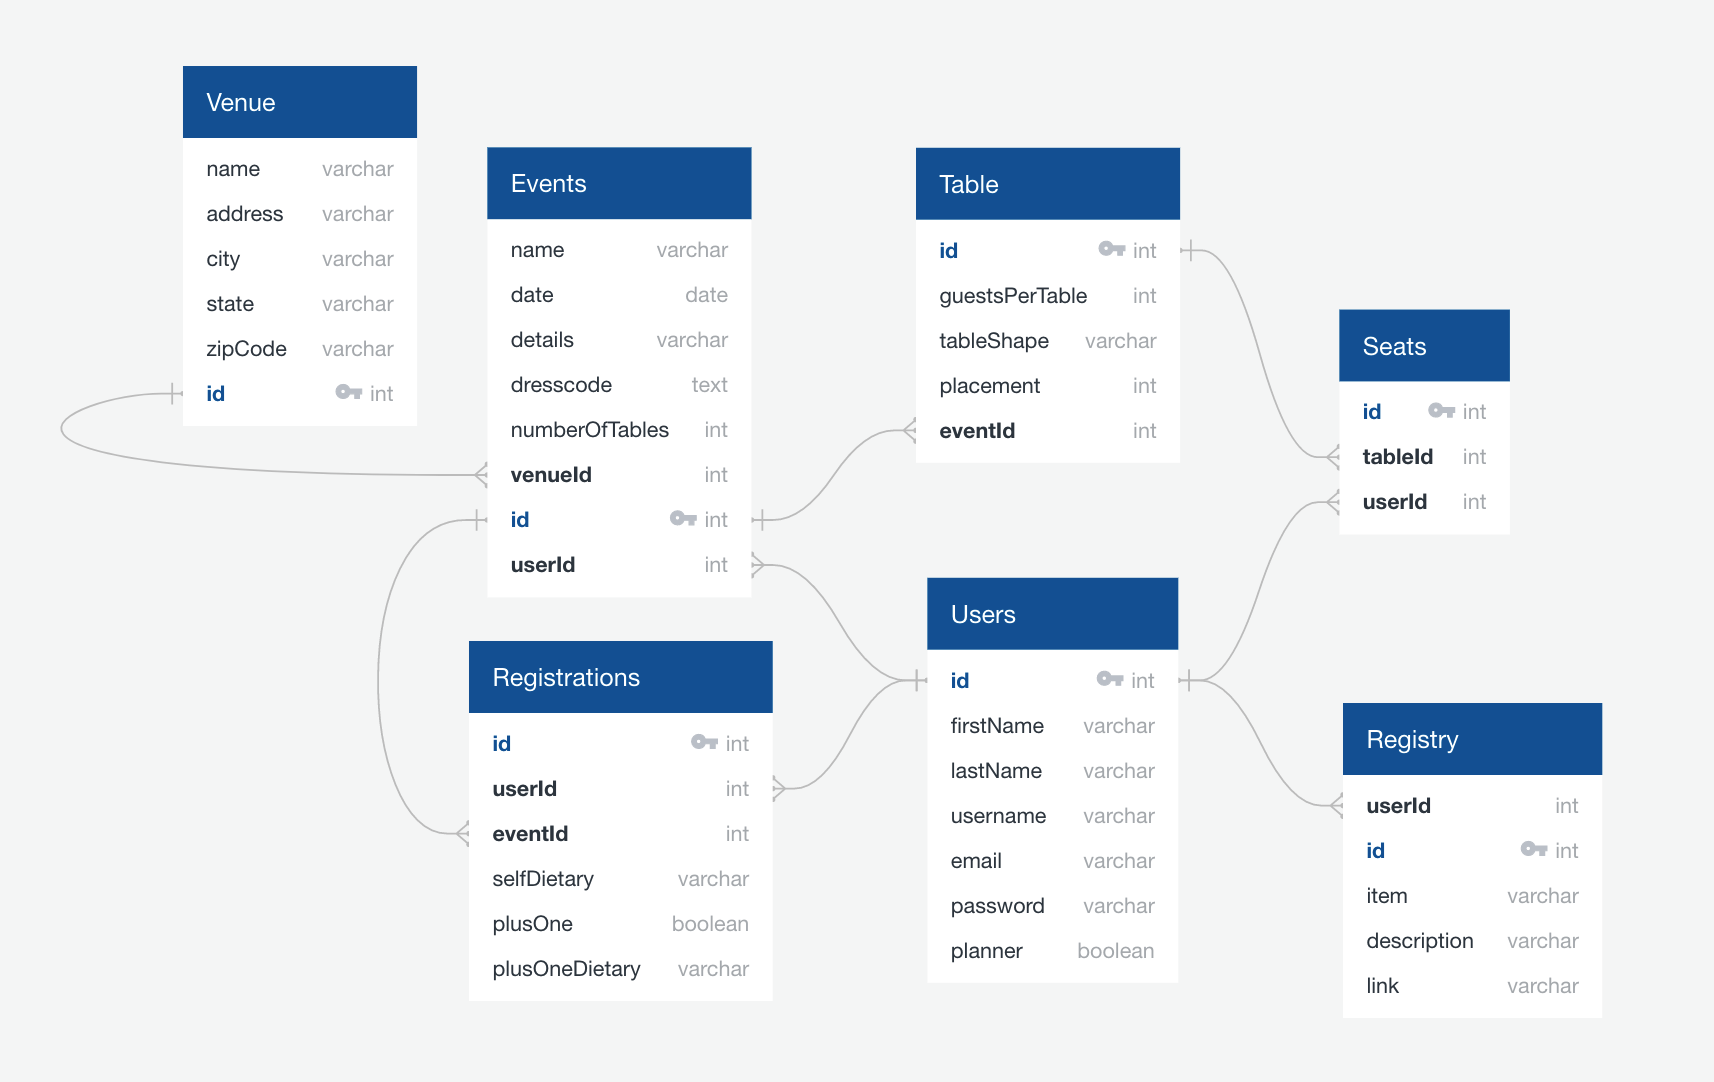
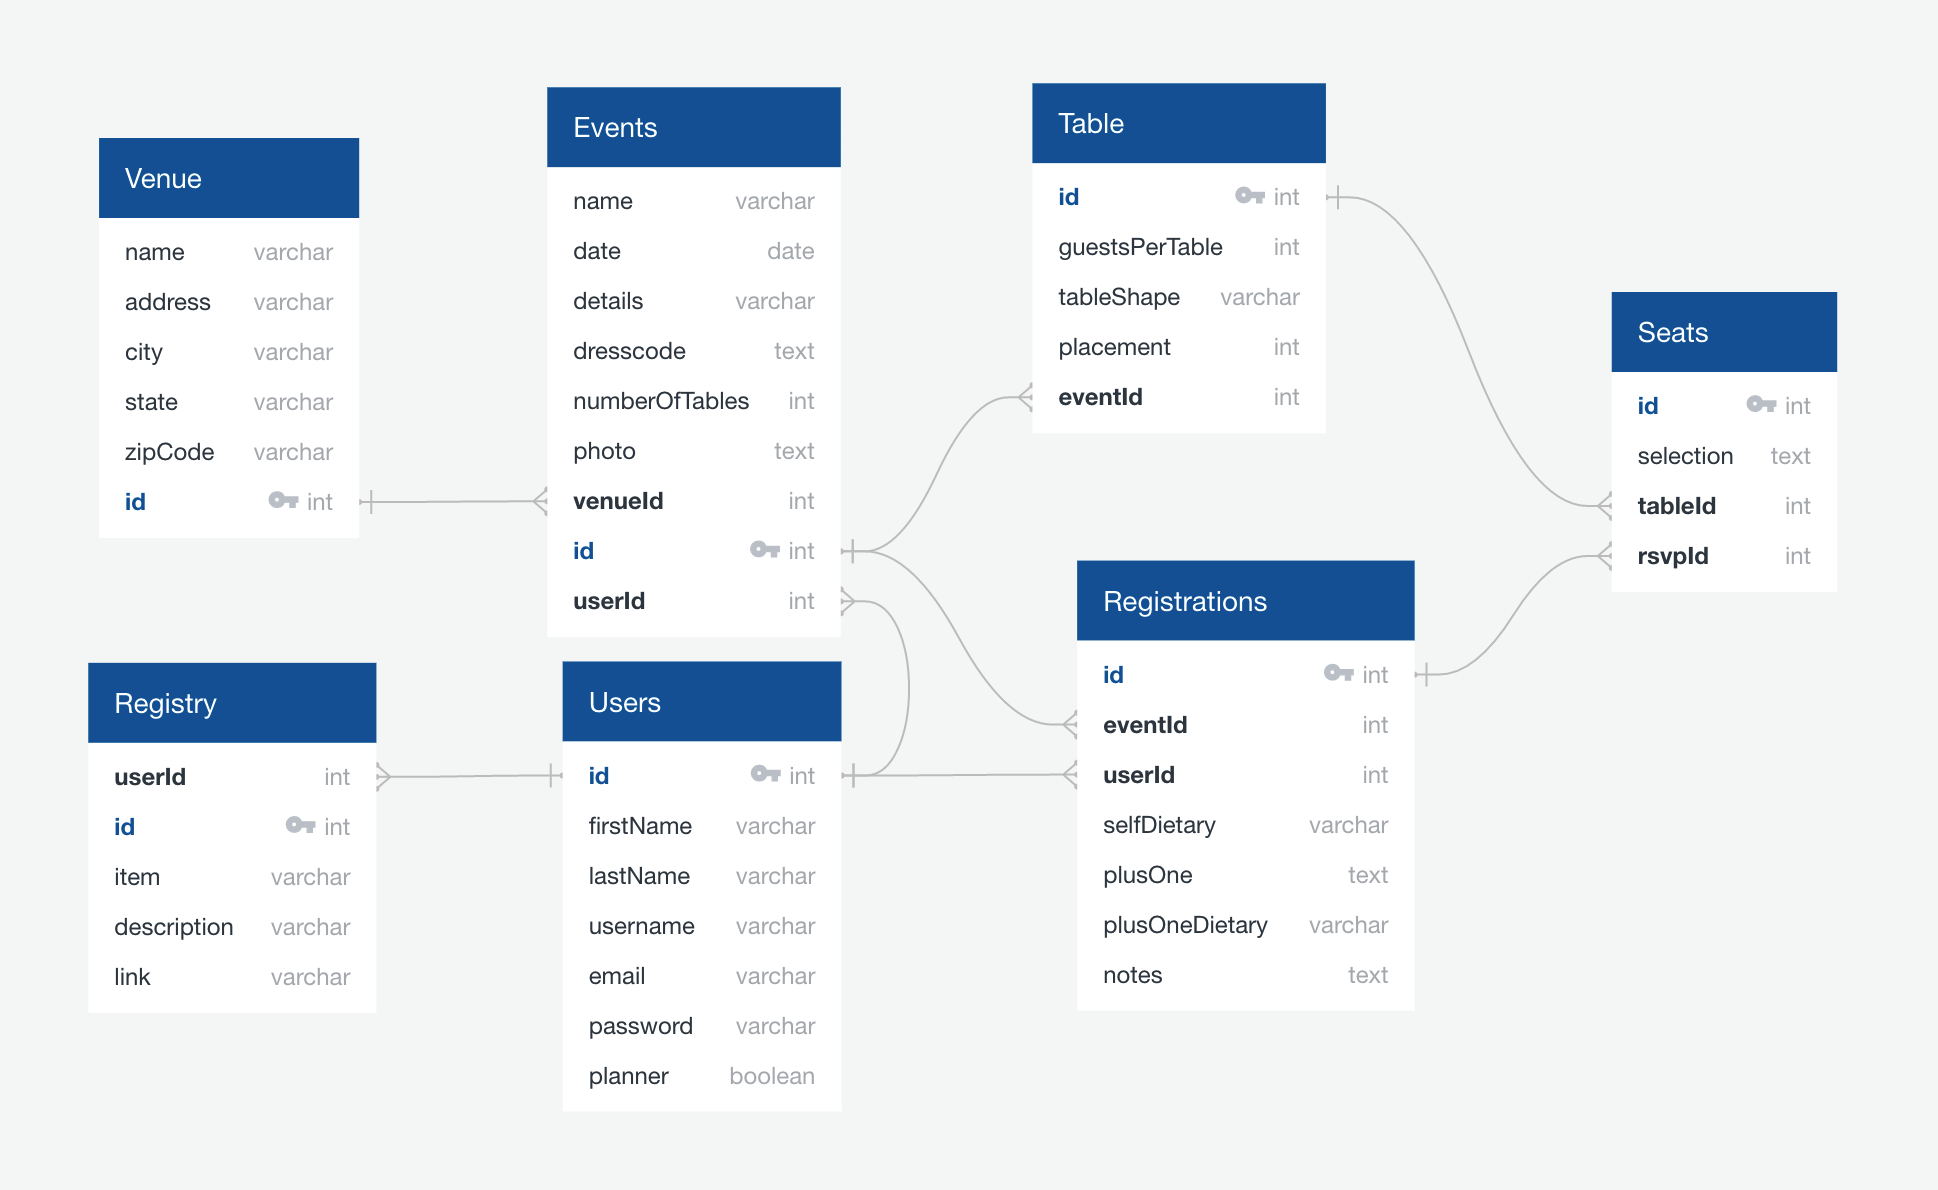
added event image to database and created demo

diff --git a/frontend/src/components/RSVPFormModal/RSVPForm.js b/frontend/src/components/RSVPFormModal/RSVPForm.js
@@ -1,0 +1,107 @@
+import React, { useState, useEffect } from 'react';
+import * as sessionActions from '../../store/session';
+import { useDispatch, useSelector } from 'react-redux';
+import { useHistory } from 'react-router';
+import * as eventActions from '../../store/events';
+
+const diets = ['None', 'Vegetarian', 'Vegan', 'Gluten-free', 'Allergy (please specify in notes below)']
+
+function RSVPForm() {
+  const sessionUser = useSelector(state => state.session.user);
+  const dispatch = useDispatch();
+  const history = useHistory();
+  const [firstName, setFirstName] = useState(sessionUser?.firstName);
+  const [lastName, setLastName] = useState(sessionUser?.lastName);
+  const [plusOne, setPlusOne] = useState('');
+  const [selfDietary, setSelfDietary] = useState('None');
+  const [plusOneDietary, setPlusOneDietary] = useState('');
+  const [message, setMessage] = useState('');
+  const [errors, setErrors] = useState([]);
+  const [hasSubmitted, setHasSubmitted] = useState(false);
+
+  useEffect(() => {
+    const errors = [];
+    // if (name.length < 3) errors.push('Please enter your Name');
+    setErrors(errors);
+  }, [])
+
+  const handleSubmit = async (e) => {
+    e.preventDefault();
+    setHasSubmitted(true);
+
+    const payload = {}
+    await dispatch(eventActions.createNewEvent(payload));
+
+    history.push("/events")
+    // setName('');
+    setErrors([]);
+    setHasSubmitted(false);
+  };
+
+  return (
+    <div className="center">
+      <div className="create-event-form-container">
+        <form onSubmit={handleSubmit}>
+          <h3>Please fill in details:</h3>
+          <ul>
+            {errors.map((error, idx) => (
+              <li key={idx} className="error">{error}</li>
+            ))}
+          </ul>
+          <label> First Name
+            <input
+              type="text"
+              value={firstName}
+              onChange={(e) => setFirstName(e.target.value)}
+              required
+            />
+          </label>
+          <label> Last Name
+            <input
+              type="text"
+              value={lastName}
+              onChange={(e) => setLastName(e.target.value)}
+              required
+            />
+          </label>
+          <label> Do you have dietary restrictions?
+            <select
+              className='input'
+              value={selfDietary}
+              onChange={(e) => setSelfDietary(e.target.value)}
+            >{diets.map(diet => (
+              <option key={diet} value ={diet}>{diet}</option>
+            ))}</select>
+          </label>
+          <label> Bringing a guest? Please provide their full name
+            <input
+              type="text"
+              value={plusOne}
+              onChange={(e) => setPlusOne(e.target.value)}
+            />
+          </label>
+          <label> Your plus one's dietary restriction
+            <select
+              className='input'
+              value={plusOneDietary}
+              onChange={(e) => setPlusOneDietary(e.target.value)}
+            >{diets.map(diet => (
+              <option key={diet} value ={diet}>{diet}</option>
+            ))}</select>
+          </label>
+          <label> Notes
+            <input
+              type="text"
+              value={message}
+              onChange={(e) => setMessage(e.target.value)}
+              required
+            />
+          </label>
+          <button type="submit">Save</button>
+        </form>
+      </div>
+    </div>
+  )
+}
+
+export default RSVPForm;

diff --git a/frontend/src/components/EventDetail/EventGuest.js b/frontend/src/components/EventDetail/EventGuest.js
@@ -4,12 +4,13 @@ import { NavLink, useParams } from 'react-router-dom';
 import * as eventActions from '../../store/events';
 import * as rsvpActions from '../../store/rsvps';
 import url from '../MainContent/images/proposal.jpeg';
+import RSVPFormModal from '../RSVPFormModal';
 
 function EventGuest({event}) {
   const dispatch = useDispatch();
   const sessionUser = useSelector(state => state.session.user);
   const rsvps = useSelector(state => state.rsvps);
-  const rsvp = Object.values(rsvps)?.find(rsvp => rsvp.eventId === event.id);
+  const rsvp = Object.values(rsvps)?.find(rsvp => rsvp?.eventId === event?.id);
   // console.log("GUEST VIEW =====>", rsvps, rsvp)
 
   useEffect(() => {
@@ -20,7 +21,7 @@ function EventGuest({event}) {
     <div className='center'>
       <div className='large-card'>
         <div className='card-image'>
-          <img className='card-image-format' src={url} alt='Wedding'></img>
+          <img className='card-image-format' src={event?.image ? event.image : url} alt='Wedding'></img>
         </div>
         <div className='right'>
           <ul className='event-info'>
@@ -38,7 +39,7 @@ function EventGuest({event}) {
                 <a className='link right-bottom'><NavLink className="unset" to={`/events`}>Back to Events »</NavLink></a>
               </div>
             </div>
-            : <div className='row-right-bottom'><button className='teal-button'>RSVP</button></div>}
+            : <RSVPFormModal />}
           </div>
         </div>
       </div>

diff --git a/backend/db/seeders/20220430035214-events.js b/backend/db/seeders/20220430035214-events.js
@@ -5,19 +5,35 @@ module.exports = {
     return queryInterface.bulkInsert('Events', [
       {
         name: "H&H's Wedding",
-        date: "2022-08-28",
-        details: "",
-        dresscode: "Bridesmaids and groomsmen will be wearing teal and grey. Feel free to coordinate or feel free to stand out!",
+        date: "2022-08-27",
+        details: "Save the Date!",
+        dresscode: "Teal and Grey",
         numberOfTables: 20,
+        image: 'https://user-images.githubusercontent.com/96894806/166847552-672c7a3d-ebc6-4b03-8682-951981c0b65c.jpeg',
         userId: 2,
         venueId: 1
       }, {
         name: "Lauren and Joel",
         date: "2022-06-30",
-        details: "",
-        dresscode: "",
+        details: "Details to come!",
+        dresscode: "Dressy-Casual",
         numberOfTables: 4,
         userId: 5
+      }
+      , {
+        name: "Steph's Wedding!",
+        date: "2023-04-23",
+        details: "Save the Date!",
+        dresscode: "Semi-Formal",
+        numberOfTables: 12,
+        userId: 7
+      }, {
+        name: "Demo Wedding",
+        date: "2023-04-30",
+        details: "More details to come...",
+        dresscode: "Cocktail-Formal",
+        numberOfTables: 10,
+        userId: 1
       }
     ], {});
   },

diff --git a/frontend/src/components/RSVPCard/index.js b/frontend/src/components/RSVPCard/index.js
@@ -21,7 +21,7 @@ function RSVPCard({rsvp}) {
       {myRSVP ?
       <div className='card'>
         <div className='card-image'>
-          <img className='card-image-format' src={url} alt='Wedding'></img>
+          <img className='card-image-format' src={event?.image ? event.image : url} alt='Wedding'></img>
         </div>
         <div className='right'>
           <ul className='rsvp-info'>
@@ -32,8 +32,8 @@ function RSVPCard({rsvp}) {
             <li className='muted'>{rsvp?.plusOneDietary}</li>
           </ul>
           <div className='row-right-bottom'>
-              <a className='link right-bottom pad-right'><NavLink className="unset" to={`/rsvps/${rsvp.id}/edit`}>Edit »</NavLink></a>
-              <a className='link right-bottom'><NavLink className="unset" to={`/events/${event.id}`}>More Details »</NavLink></a>
+              <a className='link right-bottom pad-right'><NavLink className="unset" to={`/rsvps/${rsvp?.id}/edit`}>Edit »</NavLink></a>
+              <a className='link right-bottom'><NavLink className="unset" to={`/events/${event?.id}`}>More Details »</NavLink></a>
           </div>
         </div>
       </div> : null}

diff --git a/frontend/src/components/SplashPage/SplashPage.css b/frontend/src/components/SplashPage/SplashPage.css
@@ -14,4 +14,33 @@
   flex-direction: column;
   align-items: flex-end;
   margin: 5%;
+  margin: 10vh;
+}
+
+.page-content {
+  all: unset;
+  height: 100vh;
+}
+
+/********* large screens ************/
+@media screen and (min-width: 1200px) {
+  /* button {
+    background-color: yellow;
+  } */
+}
+
+/********* horizontally narrow ******/
+@media screen and (max-height: 670px) {
+  /* button {
+    background-color: blue;
+  } */
+}
+
+/********* mobile *******************/
+@media screen and (max-width: 700px) {
+  .splash-card {
+    display: flex;
+    flex-direction: column;
+    align-items: center;
+  }
 }

diff --git a/frontend/src/components/SignupFormModal/SignupForm.js b/frontend/src/components/SignupFormModal/SignupForm.js
@@ -33,6 +33,7 @@ function SignupForm() {
 
   return (
     <form onSubmit={handleSubmit}>
+      <h3>Sign up for your account!</h3>
       <ul>
         {errors.map((error, idx) => <li key={idx}>{error}</li>)}
       </ul>
@@ -73,6 +74,10 @@ function SignupForm() {
         />
       </label>
       <button type="submit">Sign Up</button>
+      <button onClick={() => {
+        dispatch(sessionActions.login({credential: 'demouser', password: 'password'}))
+        return history.push("/events")
+      }}>Demo</button>
     </form>
   );
 }

diff --git a/frontend/src/components/LoginFormModal/LoginForm.js b/frontend/src/components/LoginFormModal/LoginForm.js
@@ -24,6 +24,7 @@ function LoginForm() {
 
   return (
     <form onSubmit={handleSubmit}>
+      <h3>Log into your account!</h3>
       <ul>
         {errors.map((error, idx) => (
           <li key={idx}>{error}</li>
@@ -48,6 +49,10 @@ function LoginForm() {
         />
       </label>
       <button type="submit">Log In</button>
+      <button onClick={() => {
+        dispatch(sessionActions.login({credential: 'demouser', password: 'password'}))
+        return history.push("/events")
+      }}>Demo</button>
     </form>
   );
 }

diff --git a/frontend/src/components/RSVPFormModal/index.js b/frontend/src/components/RSVPFormModal/index.js
@@ -1,0 +1,20 @@
+import React, { useState } from 'react';
+import { Modal } from '../../context/Modal';
+import RSVPForm from './RSVPForm';
+
+function RSVPFormModal() {
+  const [showModal, setShowModal] = useState(false);
+
+  return (
+    <>
+      <button className="teal-button" onClick={() => setShowModal(true)}>RSVP</button>
+      {showModal && (
+        <Modal onClose={() => setShowModal(false)}>
+          <RSVPForm />
+        </Modal>
+      )}
+    </>
+  );
+}
+
+export default RSVPFormModal;

diff --git a/frontend/src/components/EventCard/index.js b/frontend/src/components/EventCard/index.js
@@ -19,7 +19,7 @@ function EventCard({event}) {
       {myEvent ?
       <div className='card'>
         <div className='card-image'>
-          <img className='card-image-format' src={url} alt='Wedding'></img>
+          <img className='card-image-format' src={event?.image ? event.image : url} alt='Wedding'></img>
         </div>
         <div className='right'>
           <ul className='event-info'>

diff --git a/frontend/src/components/EventDetail/EventPlanner.js b/frontend/src/components/EventDetail/EventPlanner.js
@@ -26,7 +26,7 @@ function EventPlanner({event}) {
 
         </div>
         <div className='card-image'>
-          <img className='card-image-format' src={url} alt='Wedding'></img>
+          <img className='card-image-format' src={event?.image ? event.image : url} alt='Wedding'></img>
         </div>
         <div className='right'>
           <ul className='event-info'>

diff --git a/frontend/src/components/EventForm/index.js b/frontend/src/components/EventForm/index.js
@@ -28,13 +28,11 @@ function EventForm() {
 
   const handleSubmit = async (e) => {
     e.preventDefault();
-    setErrors([]);
+    // setErrors([]);
     setHasSubmitted(true);
 
     const payload = {name, date, details, dresscode}
     await dispatch(eventActions.createNewEvent(payload));
-    // if (event) {
-    // }
 
     history.push("/events")
     setName('');

diff --git a/backend/db/migrations/20220429225833-create-rsvp.js b/backend/db/migrations/20220429225833-create-rsvp.js
@@ -12,10 +12,13 @@ module.exports = {
         type: Sequelize.STRING(50)
       },
       plusOne: {
-        type: Sequelize.BOOLEAN
+        type: Sequelize.STRING(100)
       },
       plusOneDietary: {
         type: Sequelize.STRING(50)
+      },
+      notes: {
+        type: Sequelize.STRING(250)
       },
       userId: {
         type: Sequelize.INTEGER,
